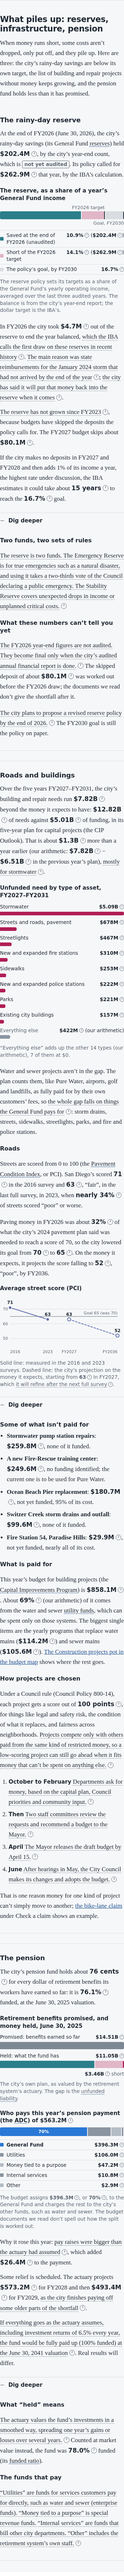
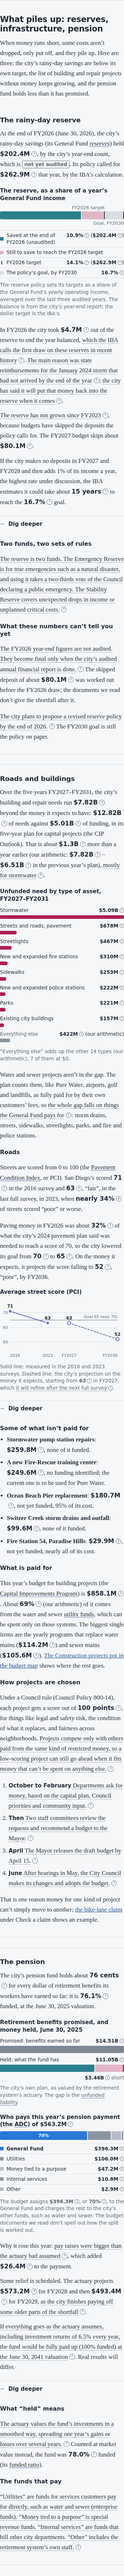
fix(site): reserve meter key shows the target as the target
The "Short of the FY2026 target" row showed the target's own values
(14.1%, $262.9M), which read as $262.9M short. The key now has a
"FY2026 target" row (tick swatch) carrying those values, and the pale
stretch is "Still to save to reach the FY2026 target" with no number.
The meter's aria-label says the stretch is still to be saved; accept
checks the two rows.

diff --git a/site/charts/piles.js b/site/charts/piles.js
@@ -126,7 +126,7 @@ export function renderReserve(el, prep, { fig }) {
   track.append(tick(target, 'is-target'), tick(goal, 'is-goal'));
   track.setAttribute('role', 'img');
   track.setAttribute('aria-label', `Reserve at the end of FY2026: ${bal.pct.value}% of yearly General Fund income (${m1(bal.amount.value)}, unaudited). `
-    + `FY2026 target: ${target.figure.value}% (${m1(target.amount.value)}). Policy goal: ${goal.figure.value}% by FY${goal.fy}.`);
+    + `FY2026 target: ${target.figure.value}% (${m1(target.amount.value)}); the stretch between the two is still to be saved. Policy goal: ${goal.figure.value}% by FY${goal.fy}.`);
   const above = h('div', 'meter-above');
   const tl = h('span', 'meter-label is-target', 'FY2026 target');
   tl.style.right = `${100 - target.x}%`;
@@ -135,7 +135,8 @@ export function renderReserve(el, prep, { fig }) {
   const key = h('ul', 'pile-key',
     h('li', null, h('span', 'swatch is-balance'), h('span', 'pk-name', 'Saved at the end of FY2026 (unaudited)'),
       h('span', 'pk-val', fig(bal.pct, `${bal.pct.value}%`), ' (', fig(bal.amount, m1(bal.amount.value)), ')')),
-    h('li', null, h('span', 'swatch is-short'), h('span', 'pk-name', 'Short of the FY2026 target'),
+    h('li', 'is-gap-row', h('span', 'swatch is-short'), h('span', 'pk-name', 'Still to save to reach the FY2026 target'), h('span', 'pk-val')),
+    h('li', 'is-target-row', h('span', 'swatch is-tick'), h('span', 'pk-name', 'FY2026 target'),
       h('span', 'pk-val', fig(target.figure, `${target.figure.value}%`), ' (', fig(target.amount, m1(target.amount.value)), ')')),
     h('li', null, h('span', 'swatch is-beyond'), h('span', 'pk-name', `The policy’s goal, by FY${goal.fy}`),
       h('span', 'pk-val', fig(goal.figure, `${goal.figure.value}%`))));

diff --git a/site/styles.css b/site/styles.css
@@ -435,6 +435,7 @@ main { padding-bottom: 80px; }
 .pile-key li { display: grid; grid-template-columns: 10px minmax(0, 1fr) auto; column-gap: 8px; align-items: baseline; padding: 4px 0; border-bottom: 1px solid var(--rule); }
 .pile-key li:first-child { border-top: 1px solid var(--rule); }
 .pile-key .swatch { width: 10px; height: 10px; border-radius: 2px; align-self: center; }
+.pile-key .swatch.is-tick { border-radius: 0; background: linear-gradient(90deg, transparent 4px, var(--text) 4px, var(--text) 6px, transparent 6px); }
 .pile-key .pk-val { text-align: right; white-space: nowrap; }
 .pile-key li.is-hi .pk-name { font-weight: 700; }
 
